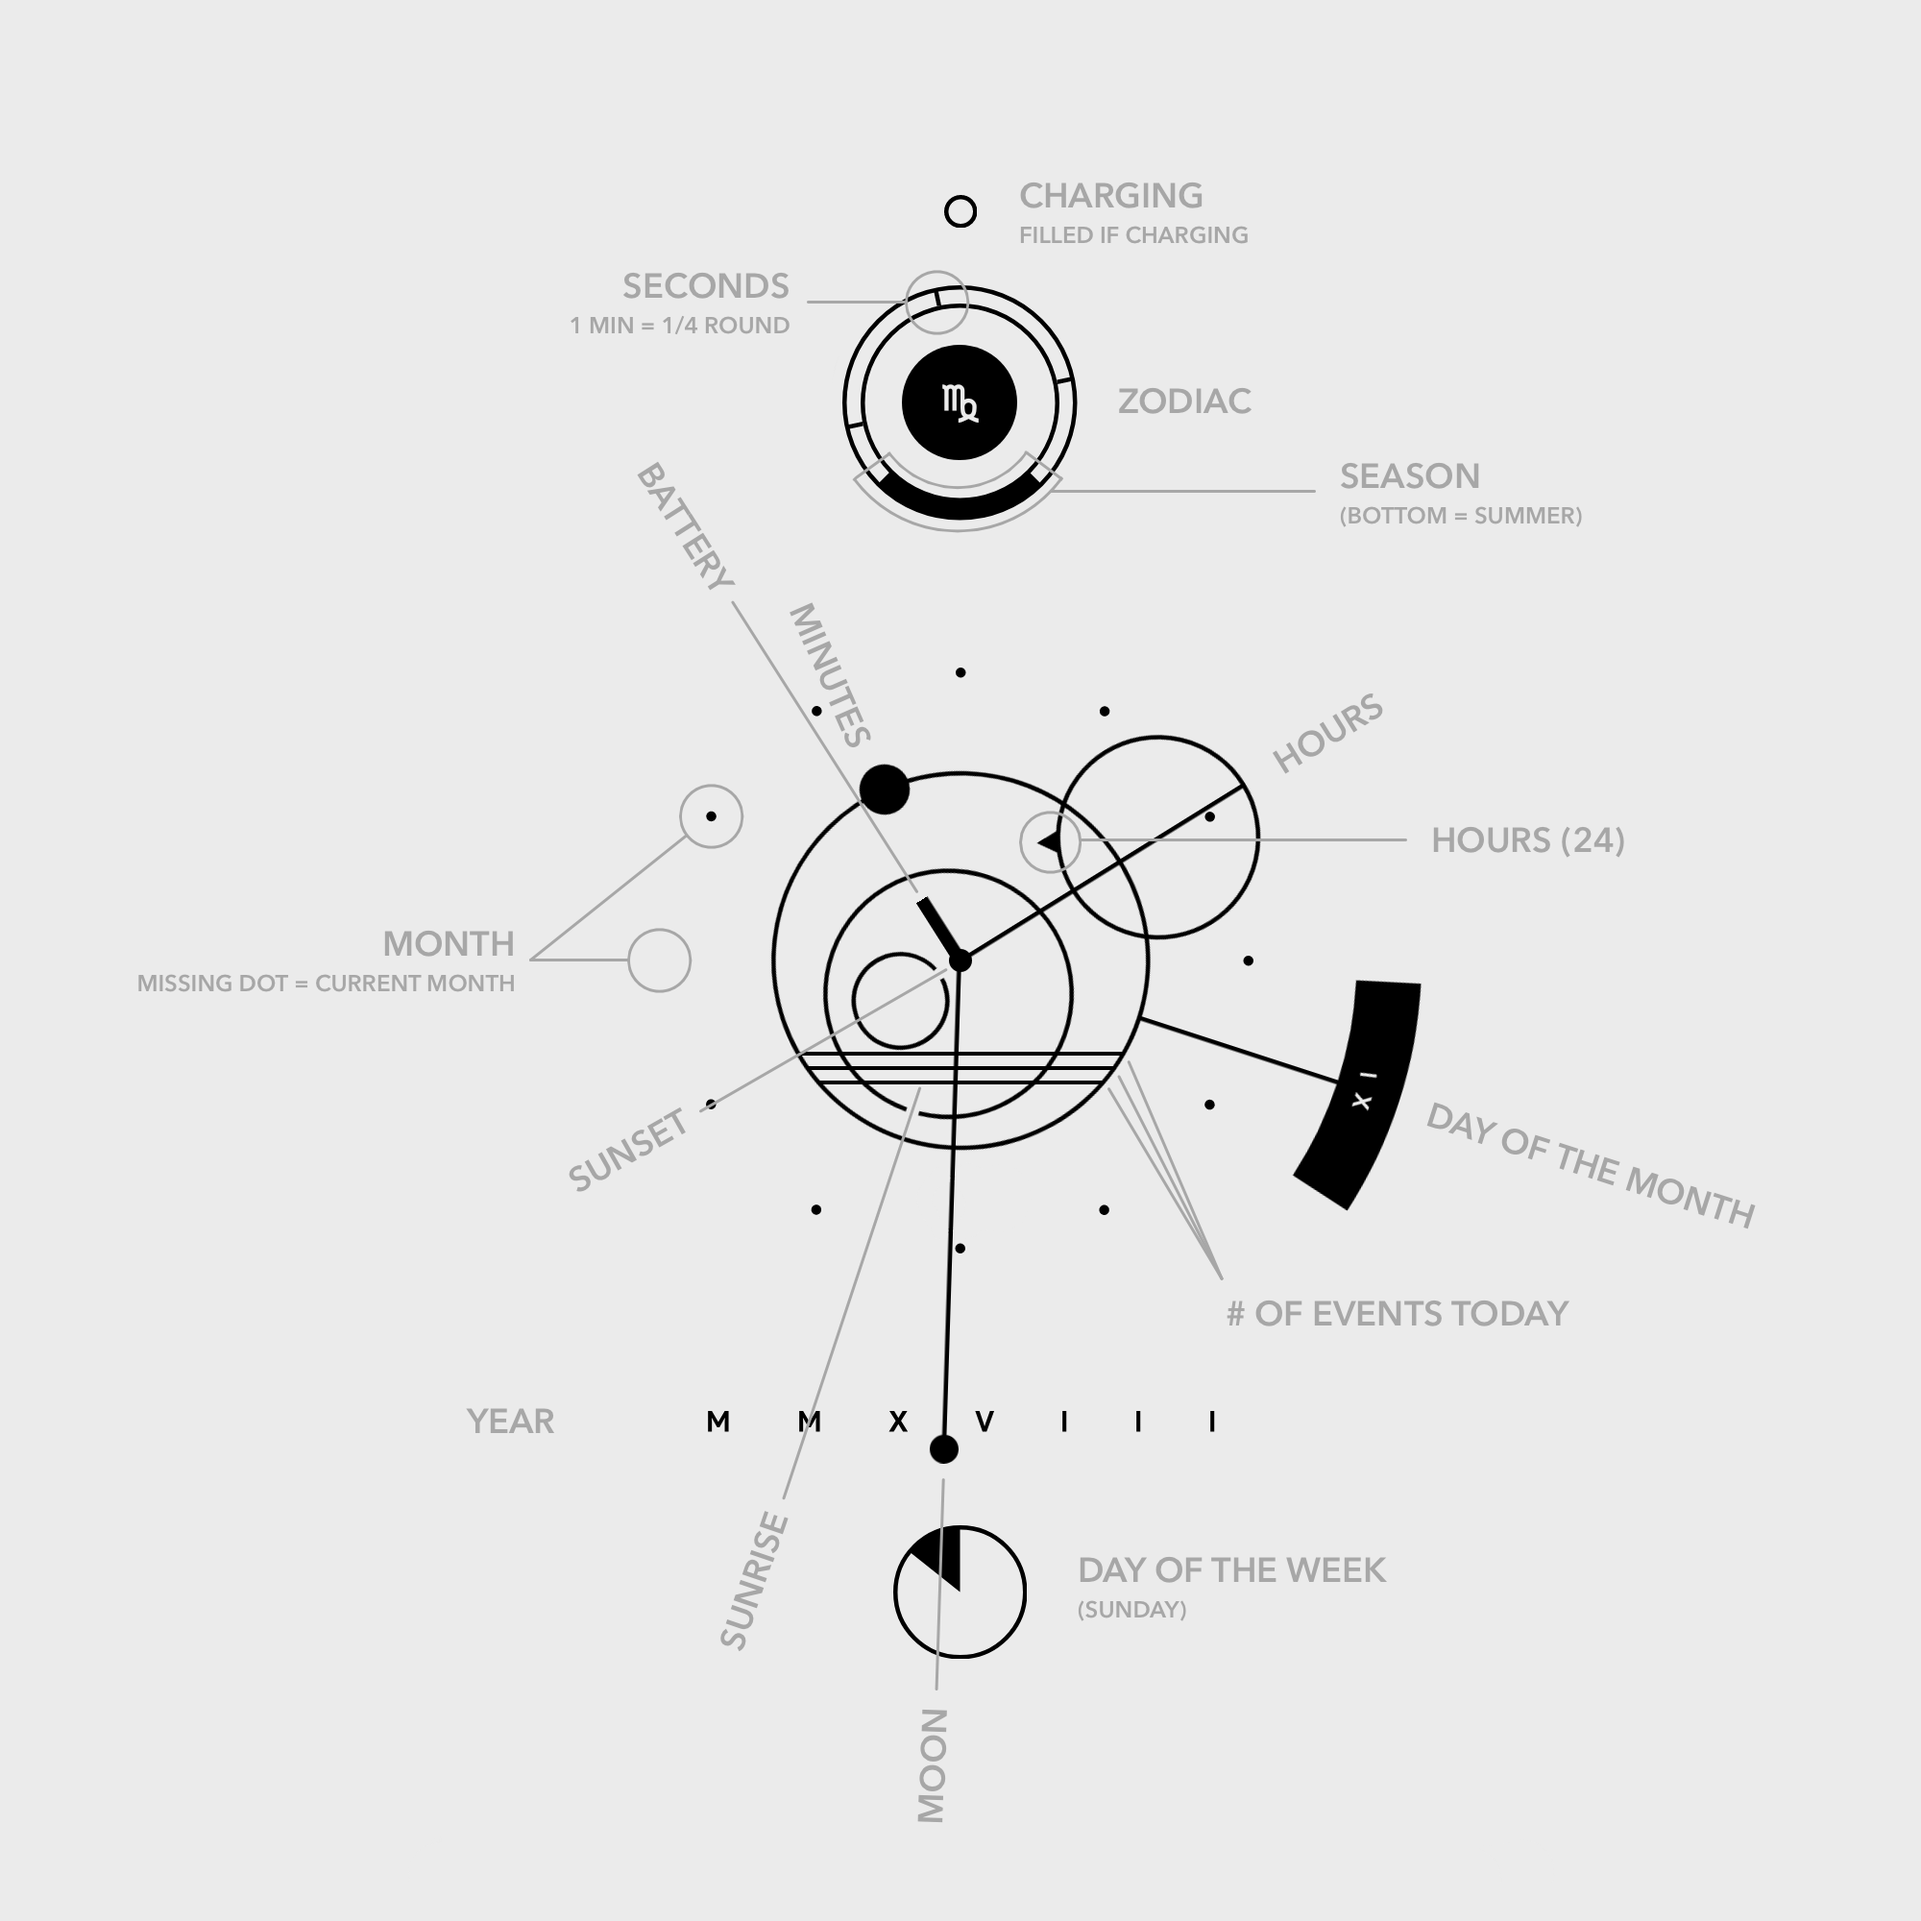
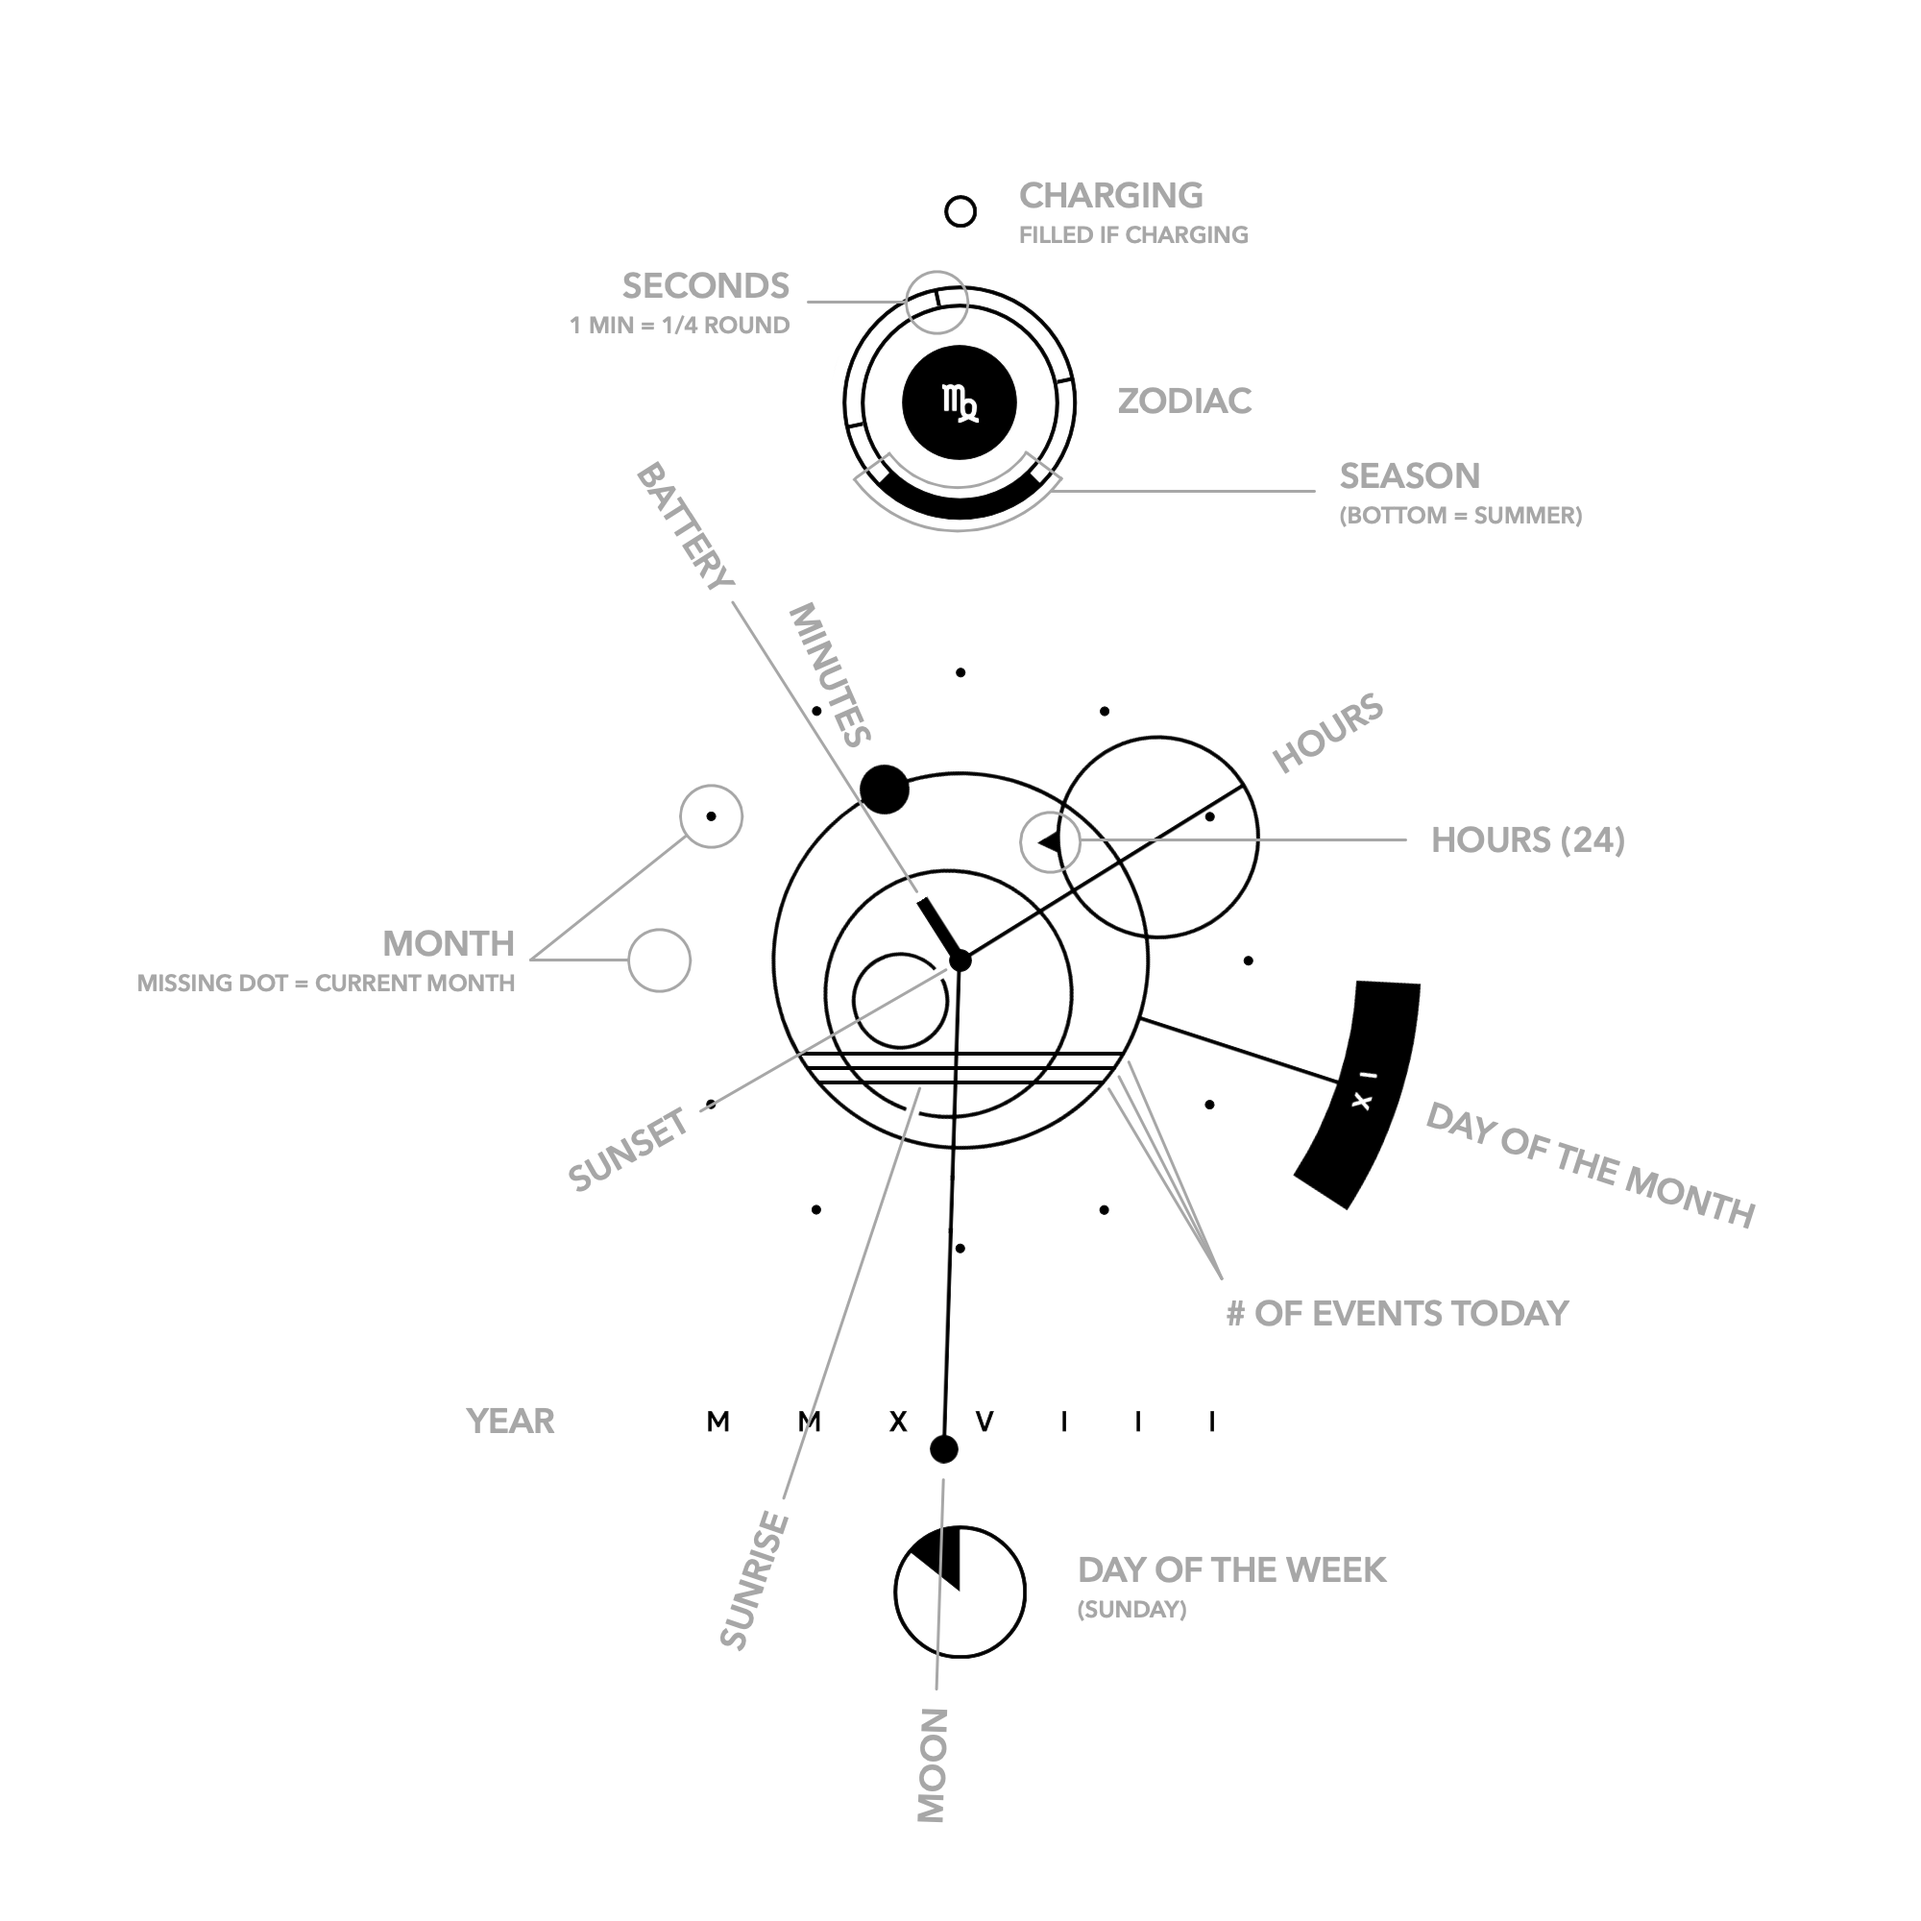
Visual changes

diff --git a/_layouts/default.html b/_layouts/default.html
@@ -11,7 +11,7 @@
   <link rel="stylesheet" href="{{ site.baseurl }}/styles/home.css">
   <link rel="stylesheet" href="{{ site.baseurl }}/styles/screen_size.css">
   <link rel="icon" href="https://github.com/{{ site.github_username }}.png?size=16">
-  <link href="https://fonts.googleapis.com/css?family=Muli:300,300i,900,900i" rel="stylesheet">
+  <link href="https://fonts.googleapis.com/css?family=Muli:300,300i,400,900,900i" rel="stylesheet">
   <link href="https://fonts.googleapis.com/css?family=Cutive+Mono" rel="stylesheet">
   <link href="https://fonts.googleapis.com/css?family=Overpass+Mono" rel="stylesheet">
   <!-- <script src="https://ajax.googleapis.com/ajax/libs/jquery/3.3.1/jquery.min.js"></script> -->

diff --git a/_site/404.html b/_site/404.html
@@ -8,7 +8,7 @@
   <link rel="stylesheet" href="/portfolio/styles/home.css">
   <link rel="stylesheet" href="/portfolio/styles/screen_size.css">
   <link rel="icon" href="https://github.com/marcomoroni.png?size=16">
-  <link href="https://fonts.googleapis.com/css?family=Muli:300,300i,900,900i" rel="stylesheet">
+  <link href="https://fonts.googleapis.com/css?family=Muli:300,300i,400,900,900i" rel="stylesheet">
   <link href="https://fonts.googleapis.com/css?family=Cutive+Mono" rel="stylesheet">
   <link href="https://fonts.googleapis.com/css?family=Overpass+Mono" rel="stylesheet">
   <!-- <script src="https://ajax.googleapis.com/ajax/libs/jquery/3.3.1/jquery.min.js"></script> -->

diff --git a/_site/azucena/index.html b/_site/azucena/index.html
@@ -8,7 +8,7 @@
   <link rel="stylesheet" href="/portfolio/styles/home.css">
   <link rel="stylesheet" href="/portfolio/styles/screen_size.css">
   <link rel="icon" href="https://github.com/marcomoroni.png?size=16">
-  <link href="https://fonts.googleapis.com/css?family=Muli:300,300i,900,900i" rel="stylesheet">
+  <link href="https://fonts.googleapis.com/css?family=Muli:300,300i,400,900,900i" rel="stylesheet">
   <link href="https://fonts.googleapis.com/css?family=Cutive+Mono" rel="stylesheet">
   <link href="https://fonts.googleapis.com/css?family=Overpass+Mono" rel="stylesheet">
   <!-- <script src="https://ajax.googleapis.com/ajax/libs/jquery/3.3.1/jquery.min.js"></script> -->

diff --git a/_site/clock/index.html b/_site/clock/index.html
@@ -8,7 +8,7 @@
   <link rel="stylesheet" href="/portfolio/styles/home.css">
   <link rel="stylesheet" href="/portfolio/styles/screen_size.css">
   <link rel="icon" href="https://github.com/marcomoroni.png?size=16">
-  <link href="https://fonts.googleapis.com/css?family=Muli:300,300i,900,900i" rel="stylesheet">
+  <link href="https://fonts.googleapis.com/css?family=Muli:300,300i,400,900,900i" rel="stylesheet">
   <link href="https://fonts.googleapis.com/css?family=Cutive+Mono" rel="stylesheet">
   <link href="https://fonts.googleapis.com/css?family=Overpass+Mono" rel="stylesheet">
   <!-- <script src="https://ajax.googleapis.com/ajax/libs/jquery/3.3.1/jquery.min.js"></script> -->

diff --git a/_site/index.html b/_site/index.html
@@ -8,7 +8,7 @@
   <link rel="stylesheet" href="/portfolio/styles/home.css">
   <link rel="stylesheet" href="/portfolio/styles/screen_size.css">
   <link rel="icon" href="https://github.com/marcomoroni.png?size=16">
-  <link href="https://fonts.googleapis.com/css?family=Muli:300,300i,900,900i" rel="stylesheet">
+  <link href="https://fonts.googleapis.com/css?family=Muli:300,300i,400,900,900i" rel="stylesheet">
   <link href="https://fonts.googleapis.com/css?family=Cutive+Mono" rel="stylesheet">
   <link href="https://fonts.googleapis.com/css?family=Overpass+Mono" rel="stylesheet">
   <!-- <script src="https://ajax.googleapis.com/ajax/libs/jquery/3.3.1/jquery.min.js"></script> -->

diff --git a/_site/lens-vr/index.html b/_site/lens-vr/index.html
@@ -8,7 +8,7 @@
   <link rel="stylesheet" href="/portfolio/styles/home.css">
   <link rel="stylesheet" href="/portfolio/styles/screen_size.css">
   <link rel="icon" href="https://github.com/marcomoroni.png?size=16">
-  <link href="https://fonts.googleapis.com/css?family=Muli:300,300i,900,900i" rel="stylesheet">
+  <link href="https://fonts.googleapis.com/css?family=Muli:300,300i,400,900,900i" rel="stylesheet">
   <link href="https://fonts.googleapis.com/css?family=Cutive+Mono" rel="stylesheet">
   <link href="https://fonts.googleapis.com/css?family=Overpass+Mono" rel="stylesheet">
   <!-- <script src="https://ajax.googleapis.com/ajax/libs/jquery/3.3.1/jquery.min.js"></script> -->

diff --git a/_site/mv/index.html b/_site/mv/index.html
@@ -8,7 +8,7 @@
   <link rel="stylesheet" href="/portfolio/styles/home.css">
   <link rel="stylesheet" href="/portfolio/styles/screen_size.css">
   <link rel="icon" href="https://github.com/marcomoroni.png?size=16">
-  <link href="https://fonts.googleapis.com/css?family=Muli:300,300i,900,900i" rel="stylesheet">
+  <link href="https://fonts.googleapis.com/css?family=Muli:300,300i,400,900,900i" rel="stylesheet">
   <link href="https://fonts.googleapis.com/css?family=Cutive+Mono" rel="stylesheet">
   <link href="https://fonts.googleapis.com/css?family=Overpass+Mono" rel="stylesheet">
   <!-- <script src="https://ajax.googleapis.com/ajax/libs/jquery/3.3.1/jquery.min.js"></script> -->

diff --git a/_site/pba/index.html b/_site/pba/index.html
@@ -8,7 +8,7 @@
   <link rel="stylesheet" href="/portfolio/styles/home.css">
   <link rel="stylesheet" href="/portfolio/styles/screen_size.css">
   <link rel="icon" href="https://github.com/marcomoroni.png?size=16">
-  <link href="https://fonts.googleapis.com/css?family=Muli:300,300i,900,900i" rel="stylesheet">
+  <link href="https://fonts.googleapis.com/css?family=Muli:300,300i,400,900,900i" rel="stylesheet">
   <link href="https://fonts.googleapis.com/css?family=Cutive+Mono" rel="stylesheet">
   <link href="https://fonts.googleapis.com/css?family=Overpass+Mono" rel="stylesheet">
   <!-- <script src="https://ajax.googleapis.com/ajax/libs/jquery/3.3.1/jquery.min.js"></script> -->

diff --git a/_site/pearl/index.html b/_site/pearl/index.html
@@ -8,7 +8,7 @@
   <link rel="stylesheet" href="/portfolio/styles/home.css">
   <link rel="stylesheet" href="/portfolio/styles/screen_size.css">
   <link rel="icon" href="https://github.com/marcomoroni.png?size=16">
-  <link href="https://fonts.googleapis.com/css?family=Muli:300,300i,900,900i" rel="stylesheet">
+  <link href="https://fonts.googleapis.com/css?family=Muli:300,300i,400,900,900i" rel="stylesheet">
   <link href="https://fonts.googleapis.com/css?family=Cutive+Mono" rel="stylesheet">
   <link href="https://fonts.googleapis.com/css?family=Overpass+Mono" rel="stylesheet">
   <!-- <script src="https://ajax.googleapis.com/ajax/libs/jquery/3.3.1/jquery.min.js"></script> -->

diff --git a/_site/site/index.html b/_site/site/index.html
@@ -8,7 +8,7 @@
   <link rel="stylesheet" href="/portfolio/styles/home.css">
   <link rel="stylesheet" href="/portfolio/styles/screen_size.css">
   <link rel="icon" href="https://github.com/marcomoroni.png?size=16">
-  <link href="https://fonts.googleapis.com/css?family=Muli:300,300i,900,900i" rel="stylesheet">
+  <link href="https://fonts.googleapis.com/css?family=Muli:300,300i,400,900,900i" rel="stylesheet">
   <link href="https://fonts.googleapis.com/css?family=Cutive+Mono" rel="stylesheet">
   <link href="https://fonts.googleapis.com/css?family=Overpass+Mono" rel="stylesheet">
   <!-- <script src="https://ajax.googleapis.com/ajax/libs/jquery/3.3.1/jquery.min.js"></script> -->

diff --git a/_site/styles/default.css b/_site/styles/default.css
@@ -258,6 +258,7 @@ div.highlighter-rouge code {
   text-transform: uppercase;
   letter-spacing: 0.28em;
   transition: all 0.3s ease;
+  font-weight: 400;
 }
 
 /*****************************************/

diff --git a/styles/default.css b/styles/default.css
@@ -269,6 +269,7 @@ div.highlighter-rouge code {
   text-transform: uppercase;
   letter-spacing: 0.28em;
   transition: all 0.3s ease;
+  font-weight: 400;
 }
 
 /*****************************************/
